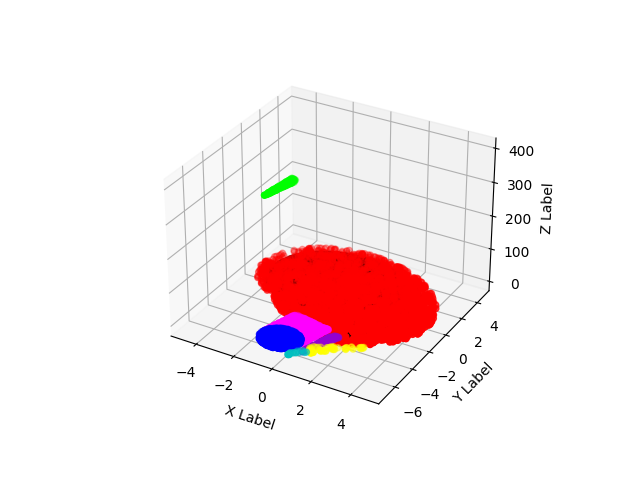
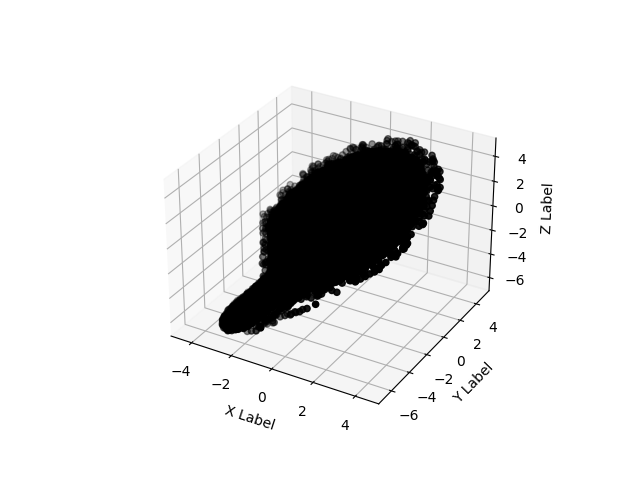
pokpioj

diff --git a/3d_dich.py b/3d_dich.py
@@ -31,19 +31,19 @@ def barnard_68(N):
                 a = xss[n]
                 b = yss[n]
                 if a < 0:
-                    xs.append((a**2+b**2)**0.5*np.cos(3.14+0.7854+np.arctan(b/a)))
-                    ys.append((a**2+b**2)**0.5*np.sin(3.14+0.7854+np.arctan(b/a)))
+                    xs.append((a**2+b**2)**0.5*np.cos(3.14+0.4636+np.arctan(b/a)))
+                    ys.append((a**2+b**2)**0.5*np.sin(3.14+0.4636+np.arctan(b/a)))
                     a = xs[h]
                     b = ys[h]
-                    zs.append(zss[n]-(a+b)/(2**0.5))
+                    zs.append(zss[n])
                     n += 1
                     h += 1
                 else:
-                    xs.append((a**2+b**2)**0.5*np.cos(0.7854+np.arctan(b/a)))
-                    ys.append((a**2+b**2)**0.5*np.sin(0.7854+np.arctan(b/a)))
+                    xs.append((a**2+b**2)**0.5*np.cos(0.4636+np.arctan(b/a)))
+                    ys.append((a**2+b**2)**0.5*np.sin(0.4636+np.arctan(b/a)))
                     a = xs[h]
                     b = ys[h]
-                    zs.append(zss[n]-(a+b)/(2**0.5))
+                    zs.append(zss[n])
                     n += 1
                     h += 1
             else:
@@ -55,38 +55,52 @@ def barnard_68(N):
         z1s = randrange(N*100//2089, 0, 0.3)
         for i in x1s:
             if x1s[n]**2 + y1s[n]**2 <= 1:
-                x1.append((x1s[n]-0.5655))
-                y1.append((y1s[n]-5.8))
-                z1.append(z1s[n]-(a+b)/(2**0.5))
+                x1.append((x1s[n]-2.37))
+                y1.append((y1s[n]-5.326))
+                a = x1[h]
+                b = y1[h]
+                z1.append(z1s[n])
                 n += 1
+                h += 1
             else:
                 n += 1
         n = k
+        h = k
         x2s = randrange(N*1000//91825, 0, 0.35)
         y2s = randrange(N*1000//91825, 0, 2.6)
         z2s = randrange(N*1000//91825, 0, 0.3)
         for i in x2s:
             if y2s[n]/(0.35-x2s[n]) <= 2.6/0.35:
-                x2.append(((x2s[n]**2+y2s[n]**2)**0.5*np.cos(np.arctan(y2s[n]/x2s[n])+2.13+0.7854)-0.777))
-                y2.append(((x2s[n]**2+y2s[n]**2)**0.5*np.sin(np.arctan(y2s[n]/x2s[n])+2.13+0.7854)-3.31))
-                z2.append(z2s[n]+400)
+                x2.append(((x2s[n]**2+y2s[n]**2)**0.5*np.cos(np.arctan(y2s[n]/x2s[n])+2.13+0.4636)-1.7526))
+                y2.append(((x2s[n]**2+y2s[n]**2)**0.5*np.sin(np.arctan(y2s[n]/x2s[n])+2.13+0.4636)-2.84))
+                a = x2[h]
+                b = y2[h]
+                z2.append(z2s[n])
 
-                x3.append((((0.35-x2s[n])**2+y2s[n]**2)**0.5*np.cos(np.arctan(y2s[n]/(0.35-x2s[n]))+2.13+0.7854)+1.7))
-                y3.append((((0.35-x2s[n])**2+y2s[n]**2)**0.5*np.sin(np.arctan(y2s[n]/(0.35-x2s[n]))+2.13+0.7854)-4.1))
+                x3.append((((0.35-x2s[n])**2+y2s[n]**2)**0.5*np.cos(np.arctan(y2s[n]/(0.35-x2s[n]))+2.13+0.4636)+0.317))
+                y3.append((((0.35-x2s[n])**2+y2s[n]**2)**0.5*np.sin(np.arctan(y2s[n]/(0.35-x2s[n]))+2.13+0.4636)-4.43))
+                a = x3[h]
+                b = y3[h]
                 z3.append(z2s[n])
                 n += 1
+                h += 1
             else:
                 n += 1
         n = k
+        h = k
         x4s = randrange(N*100//1671, 0, 2.5)
         y4s = randrange(N*100//1671, 0, 2)
         z4s = randrange(N*100//1671, 0, 0.3)
         for i in x4s:
-            x4.append(((x4s[n]**2+y4s[n]**2)**0.5*np.cos(0.56+0.7854+np.arctan(y4s[n]/x4s[n]))+0.39))
-            y4.append(((x4s[n]**2+y4s[n]**2)**0.5*np.sin(0.56+0.7854+np.arctan(y4s[n]/x4s[n]))-6.12))
+            x4.append(((x4s[n]**2+y4s[n]**2)**0.5*np.cos(0.56+0.4636+np.arctan(y4s[n]/x4s[n]))-1.566))
+            y4.append(((x4s[n]**2+y4s[n]**2)**0.5*np.sin(0.56+0.4636+np.arctan(y4s[n]/x4s[n]))-5.93))
+            a = x4[h]
+            b = y4[h]
             z4.append(z4s[n])
             n += 1
+            h += 1
         n = k
+        h = k
         xs5 = randrange(N*10000//94955, -4.4, 4.4)
         ys5 = randrange(N*10000//94955, -5, 5)
         zs5 = randrange(N*10000//94955, 0, 0.3)
@@ -95,18 +109,25 @@ def barnard_68(N):
                 a = xs5[n]
                 b = ys5[n]
                 if a < 0:
-                    x5.append((a**2+b**2)**0.5*np.cos(0.7854+3.14+np.arctan(b/a)))
-                    y5.append((a**2+b**2)**0.5*np.sin(0.7854+3.14+np.arctan(b/a)))
+                    x5.append((a**2+b**2)**0.5*np.cos(0.4636+3.14+np.arctan(b/a)))
+                    y5.append((a**2+b**2)**0.5*np.sin(0.4636+3.14+np.arctan(b/a)))
+                    a = x5[h]
+                    b = y5[h]
                     z5.append(zs5[n])
                     n += 1
+                    h += 1
                 else:                   
-                    x5.append((a**2+b**2)**0.5*np.cos(0.7854+np.arctan(b/a)))
-                    y5.append((a**2+b**2)**0.5*np.sin(0.7854+np.arctan(b/a)))
+                    x5.append((a**2+b**2)**0.5*np.cos(0.4636+np.arctan(b/a)))
+                    y5.append((a**2+b**2)**0.5*np.sin(0.4636+np.arctan(b/a)))
+                    a = x5[h]
+                    b = y5[h]
                     z5.append(zs5[n])
                     n += 1
+                    h += 1
             else:
                 n += 1
         n = k
+        h = k
         x6s = randrange(N//373, 0, 3.2)
         y6s = randrange(N//373, 0, 0.7)
         z6s = randrange(N//373, 0, 0.3)    
@@ -114,13 +135,17 @@ def barnard_68(N):
             if y6s[n]/(3.2-x6s[n]) <= 0.7/3.2:
                 a = x6s[n]
                 b = y6s[n]
-                x6.append((a**2+b**2)**0.5*np.cos(0.7854+np.arctan(b/a))+1.2)
-                y6.append((a**2+b**2)**0.5*np.sin(0.7854+np.arctan(b/a))-6.27)
+                x6.append((a**2+b**2)**0.5*np.cos(0.4636+np.arctan(b/a))-0.8443)
+                y6.append((a**2+b**2)**0.5*np.sin(0.4636+np.arctan(b/a))-6.324)
+                a = x6[h]
+                b = y6[h]
                 z6.append(z6s[n])
                 n += 1
+                h += 1
             else:
                 n += 1
         n = k
+        h = k
         x7s = randrange(N//1085, 0, 1.1)
         y7s = randrange(N//1085, 0, 0.7)
         z7s = randrange(N//1085, 0, 0.3)
@@ -128,20 +153,24 @@ def barnard_68(N):
             if y7s[n]/x7s[n] <= 0.7/1:
                 a = x7s[n]
                 b = y7s[n]
-                x7.append((a**2+b**2)**0.5*np.cos(0.7854+np.arctan(b/a))+0.3716)
-                y7.append((a**2+b**2)**0.5*np.sin(0.7854+np.arctan(b/a))-7.09)
+                x7.append((a**2+b**2)**0.5*np.cos(0.4636+np.arctan(b/a))-1.89)
+                y7.append((a**2+b**2)**0.5*np.sin(0.4636+np.arctan(b/a))-6.844)
+                a = x7[h]
+                b = y7[h]
                 z7.append(z7s[n])
                 n += 1
+                h += 1
             else:
                 n += 1
+
     ax.scatter(xs, ys, zs, color='black')
-    ax.scatter(x1, y1, z1, color='b')
-    ax.scatter(x2, y2, z2, color='lime')
-    ax.scatter(x3, y3, z3, color='darkviolet')
-    ax.scatter(x4, y4, z4, color='fuchsia')
-    ax.scatter(x5, y5, z5, color='red')
-    ax.scatter(x6, y6, z6, color='yellow')
-    ax.scatter(x7, y7, z7, color='c')
+    ax.scatter(x1, y1, z1, color='black')
+    ax.scatter(x2, y2, z2, color='black')
+    ax.scatter(x3, y3, z3, color='black')
+    ax.scatter(x4, y4, z4, color='black')
+    ax.scatter(x5, y5, z5, color='black')
+    ax.scatter(x6, y6, z6, color='black')
+    ax.scatter(x7, y7, z7, color='black')
 
     ax.set_xlabel('X Label')
     ax.set_ylabel('Y Label')

diff --git a/oblako.py b/oblako.py
@@ -1,32 +1,147 @@
 import matplotlib.pyplot as plt
 import numpy as np
-from matplotlib.animation import FuncAnimation
 
-plt.axis('equal')
-plt.xlim()
-plt.ylim()
+def barnard_68(N):
+    np.random.seed(19680801)
 
-def ellips1(A, B):
-    phi = np.linspace(0, 2*np.pi, 500)
-    x2 = []
-    y2 = []
-    x1 = A * np.cos(phi)
-    y1 = B * np.sin(phi)
+    def randrange(N, vmin, vmax):
+        return (vmax - vmin)*np.random.rand(N) + vmin
+
+    fig = plt.figure()
+    ax = fig.add_subplot(projection='3d')
     n = 0
-    for i in x1:
-        if -0.6 <= i:
-            x2.append(i)
-            y2.append(y1[n])
+    k = 0
+
+    xs, ys, zs = [], [], []
+    x1, y1, z1 = [], [], []
+    x2, y2, z2 = [], [], []
+    x3, y3, z3 = [], [], []
+    x4, y4, z4 = [], [], []
+    x5, y5, z5 = [], [], []
+    x6, y6, z6 = [], [], []
+    x7, y7, z7 = [], [], []
+
+    for m, zlow, zhigh in [(',', -1, 1)]:
+        xss = randrange(N*1000//1313, -3.7, 3.7)
+        yss = randrange(N*1000//1313, -4.3, 4.3)
+        zss = randrange(N*1000//1313, 0, 0.3)
+        for i in xss:
+            if i >= -3.2  and (xss[n]**2)/(3.7**2) + (yss[n]**2)/(4.3**2) <= 1:
+                a = xss[n]
+                b = yss[n]
+                if a < 0:
+                    xs.append((a**2+b**2)**0.5*np.cos(3.14+0.7854+np.arctan(b/a)))
+                    ys.append((a**2+b**2)**0.5*np.sin(3.14+0.7854+np.arctan(b/a)))
+                    zs.append(zss[n])
+                    n += 1
+                else:
+                    xs.append((a**2+b**2)**0.5*np.cos(0.7854+np.arctan(b/a)))
+                    ys.append((a**2+b**2)**0.5*np.sin(0.7854+np.arctan(b/a)))
+                    zs.append(zss[n])
+                    n += 1
+            else:
+                n += 1
+        n = k
+        x1s = randrange(N*100//2089, -1, 1)
+        y1s = randrange(N*100//2089, -1, 1)
+        z1s = randrange(N*100//2089, 0, 0.3)
+        for i in x1s:
+            if x1s[n]**2 + y1s[n]**2 <= 1:
+                x1.append((x1s[n]-0.5655))
+                y1.append((y1s[n]-5.8))
+                z1.append(z1s[n])
+                n += 1
+            else:
+                n += 1
+        n = k
+        x2s = randrange(N*1000//91825, 0, 0.35)
+        y2s = randrange(N*1000//91825, 0, 2.6)
+        z2s = randrange(N*1000//91825, 0, 0.3)
+        for i in x2s:
+            if y2s[n]/(0.35-x2s[n]) <= 2.6/0.35:
+                x2.append(((x2s[n]**2+y2s[n]**2)**0.5*np.cos(np.arctan(y2s[n]/x2s[n])+2.13+0.7854)-0.777))
+                y2.append(((x2s[n]**2+y2s[n]**2)**0.5*np.sin(np.arctan(y2s[n]/x2s[n])+2.13+0.7854)-3.31))
+                z2.append(z2s[n]+400)
+
+                x3.append((((0.35-x2s[n])**2+y2s[n]**2)**0.5*np.cos(np.arctan(y2s[n]/(0.35-x2s[n]))+2.13+0.7854)+1.7))
+                y3.append((((0.35-x2s[n])**2+y2s[n]**2)**0.5*np.sin(np.arctan(y2s[n]/(0.35-x2s[n]))+2.13+0.7854)-4.1))
+                z3.append(z2s[n])
+                n += 1
+            else:
+                n += 1
+        n = k
+        x4s = randrange(N*100//1671, 0, 2.5)
+        y4s = randrange(N*100//1671, 0, 2)
+        z4s = randrange(N*100//1671, 0, 0.3)
+        for i in x4s:
+            x4.append(((x4s[n]**2+y4s[n]**2)**0.5*np.cos(0.56+0.7854+np.arctan(y4s[n]/x4s[n]))+0.39))
+            y4.append(((x4s[n]**2+y4s[n]**2)**0.5*np.sin(0.56+0.7854+np.arctan(y4s[n]/x4s[n]))-6.12))
+            z4.append(z4s[n])
             n += 1
-        else:
-            n += 1
+        n = k
+        xs5 = randrange(N*10000//94955, -4.4, 4.4)
+        ys5 = randrange(N*10000//94955, -5, 5)
+        zs5 = randrange(N*10000//94955, 0, 0.3)
+        for i in xs5:
+            if i >= -3.6 and (xs5[n]**2)/(4.4**2) + (ys5[n]**2)/(5**2) <= 1:
+                a = xs5[n]
+                b = ys5[n]
+                if a < 0:
+                    x5.append((a**2+b**2)**0.5*np.cos(0.4636+3.14+np.arctan(b/a)))
+                    y5.append((a**2+b**2)**0.5*np.sin(0.4636+3.14+np.arctan(b/a)))
+                    z5.append(zs5[n])
+                    n += 1
+                else:                   
+                    x5.append((a**2+b**2)**0.5*np.cos(0.4636+np.arctan(b/a)))
+                    y5.append((a**2+b**2)**0.5*np.sin(0.4636+np.arctan(b/a)))
+                    z5.append(zs5[n])
+                    n += 1
+            else:
+                n += 1
+        n = k
+        x6s = randrange(N//373, 0, 3.2)
+        y6s = randrange(N//373, 0, 0.7)
+        z6s = randrange(N//373, 0, 0.3)    
+        for i in x6s:
+            if y6s[n]/(3.2-x6s[n]) <= 0.7/3.2:
+                a = x6s[n]
+                b = y6s[n]
+                x6.append((a**2+b**2)**0.5*np.cos(0.7854+np.arctan(b/a))+1.2)
+                y6.append((a**2+b**2)**0.5*np.sin(0.7854+np.arctan(b/a))-6.27)
+                z6.append(z6s[n])
+                n += 1
+            else:
+                n += 1
+        n = k
+        x7s = randrange(N//1085, 0, 1.1)
+        y7s = randrange(N//1085, 0, 0.7)
+        z7s = randrange(N//1085, 0, 0.3)
+        for i in x7s:
+            if y7s[n]/x7s[n] <= 0.7/1:
+                a = x7s[n]
+                b = y7s[n]
+                x7.append((a**2+b**2)**0.5*np.cos(0.7854+np.arctan(b/a))+0.3716)
+                y7.append((a**2+b**2)**0.5*np.sin(0.7854+np.arctan(b/a))-7.09)
+                z7.append(z7s[n])
+                n += 1
+            else:
+                n += 1
+    ax.scatter(xs, ys, zs, color='black')
+    ax.scatter(x1, y1, z1, color='b')
+    ax.scatter(x2, y2, z2, color='lime')
+    ax.scatter(x3, y3, z3, color='darkviolet')
+    ax.scatter(x4, y4, z4, color='fuchsia')
+    ax.scatter(x5, y5, z5, color='red')
+    ax.scatter(x6, y6, z6, color='yellow')
+    ax.scatter(x7, y7, z7, color='c')
+
+    ax.set_xlabel('X Label')
+    ax.set_ylabel('Y Label')
+    ax.set_zlabel('Z Label')
+
+    plt.savefig('3d_dich.png')
 
 
-    plt.plot(x2, y2, label='ellips1', color='k')
-    plt.legend()
-    plt.xlabel('x - coord')
-    plt.ylabel('y - coord')
-    plt.savefig('ellips.png')
+N = int(input('Введите количество пикселей: '))
 
-for j in np.linspace(0, 2, 100):
-    ellips1(j, j/1.05)
+barnard_68(N)
